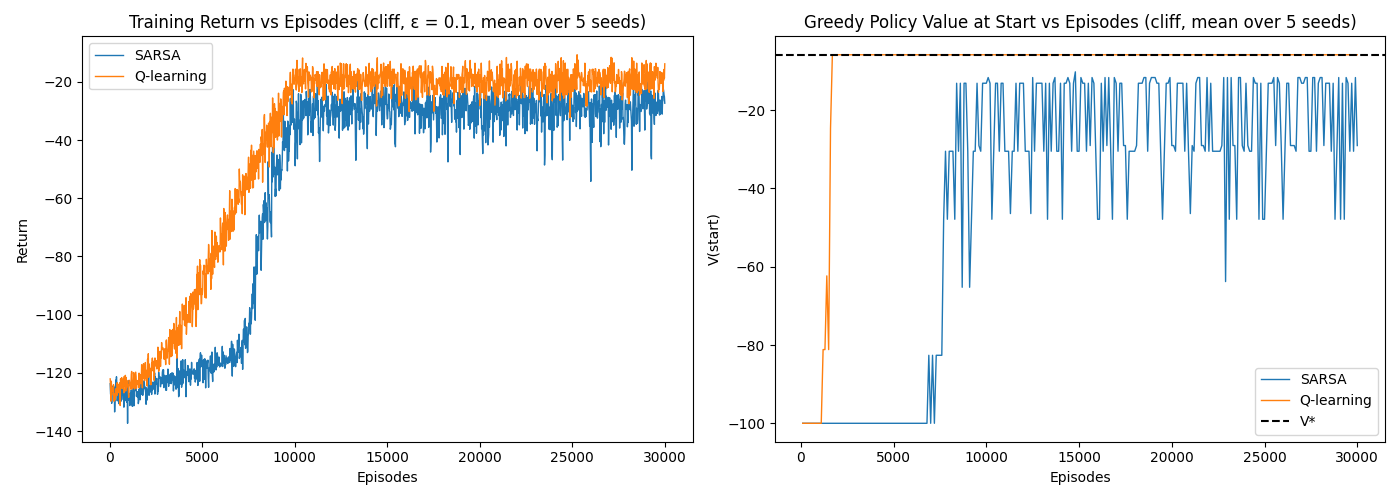
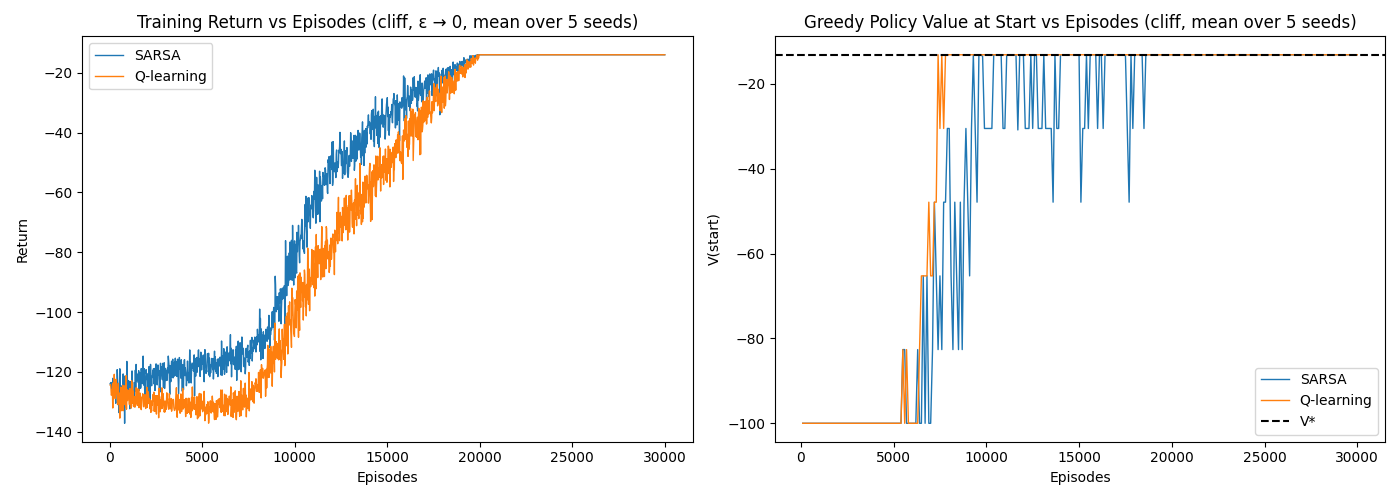
Updated Cliff Layout Study

diff --git a/experiments/model_free_control/scripts/cliff.py b/experiments/model_free_control/scripts/cliff.py
@@ -2,7 +2,7 @@ import numpy as np
 import matplotlib.pyplot as plt
 from tabular.control import sarsa, sarsa_lambda, nstep_sarsa, monte_carlo, q_learning
 from tabular.dp import evaluate_greedy, value_iteration
-from tabular.exploration import LinearEps
+from tabular.exploration import LinearEps, argmax_random
 from envs.grid import GridPushEnv
 from common.plots import plot_route
 from common.stats import bootstrap_ci
@@ -33,7 +33,7 @@ for seed in seeds:
     rng = np.random.default_rng(seed + 1)
     returns = []
     values = []
-    Q_sarsa = sarsa(env, n_episodes, alpha, gamma, LinearEps(1.0, 0.1, 10000), rng, callback=record)
+    Q_sarsa = sarsa(env, n_episodes, alpha, gamma, LinearEps(1.0, 0, 20000), rng, callback=record)
     sarsa_returns.append(returns)
     sarsa_values.append(values)
 
@@ -41,14 +41,14 @@ for seed in seeds:
     rng = np.random.default_rng(seed + 1)
     returns = []
     values = []
-    Q_q = q_learning(env, n_episodes, alpha, gamma, LinearEps(1.0, 0.1, 10000), rng, callback=record)
+    Q_q = q_learning(env, n_episodes, alpha, gamma, LinearEps(1.0, 0, 20000), rng, callback=record)
     q_learning_returns.append(returns)
     q_learning_values.append(values)
 
 fig, axs = plt.subplots(1, 2, figsize=(14, 5))
 for name, method_returns in [("SARSA", sarsa_returns), ("Q-learning", q_learning_returns)]:
     axs[0].plot(range(20, n_episodes + 1, 20), np.mean(method_returns, axis=0).reshape(-1, 20).mean(axis=1), linewidth=1, label=name)
-axs[0].set_title("Training Return vs Episodes (cliff, ε = 0.1, mean over 5 seeds)")
+axs[0].set_title("Training Return vs Episodes (cliff, ε → 0, mean over 5 seeds)")
 axs[0].set_xlabel("Episodes")
 axs[0].set_ylabel("Return")
 axs[0].legend()
@@ -64,6 +64,7 @@ fig.tight_layout()
 fig.savefig("experiments/model_free_control/results/cliff_curves.png")
 
 route_env = GridPushEnv(layout="cliff", slip=0.0, seed=0)
+route_rng = np.random.default_rng(0)
 fig, axs = plt.subplots(1, 2, figsize=(14, 4))
 for name, Q, ax in [("SARSA", Q_sarsa, axs[0]), ("Q-learning", Q_q, axs[1])]:
     state, _ = route_env.reset()
@@ -71,7 +72,7 @@ for name, Q, ax in [("SARSA", Q_sarsa, axs[0]), ("Q-learning", Q_q, axs[1])]:
     terminated = False
     truncated = False
     while not terminated and not truncated:
-        a = int(np.argmax(Q[route_env.state_index[state]]))
+        a = int(argmax_random(Q[route_env.state_index[state]], route_rng))
         state, _, terminated, truncated, _ = route_env.step(a)
         states.append(state)
     plot_route(route_env, states, ax)

diff --git a/envs/layouts.py b/envs/layouts.py
@@ -22,11 +22,12 @@ LAYOUTS["rooms7"][0, 0] = 'A'
 LAYOUTS["rooms7"][2, 1] = 'B'
 LAYOUTS["rooms7"][5, 6] = 'G'
 
-LAYOUTS["cliff"] = np.full((4,10), '.')
-LAYOUTS['cliff'][-2, 0] = 'A'
-LAYOUTS['cliff'][-2, 1] = 'B'
-LAYOUTS['cliff'][-1, 2:-3] = 'X'
-LAYOUTS['cliff'][-2, -2] = 'G'
+LAYOUTS["cliff"] = np.full((5,10), '.')
+LAYOUTS['cliff'][2, 0] = 'A'
+LAYOUTS['cliff'][2, 1] = 'B'
+LAYOUTS['cliff'][2, 8] = 'G'
+LAYOUTS['cliff'][2, 3:7] = '#'
+LAYOUTS['cliff'][4, 3:7] = 'X'
 
 def parse_layout(layout):
     agent_pos = tuple(np.argwhere(layout == 'A')[0].tolist())
